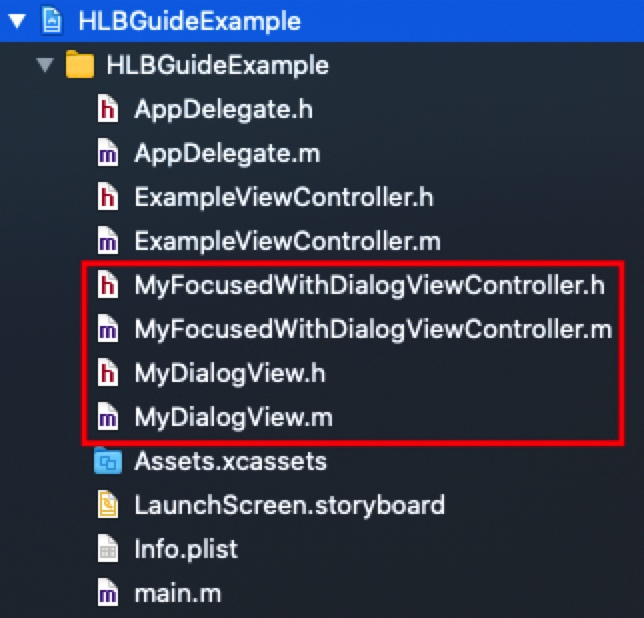
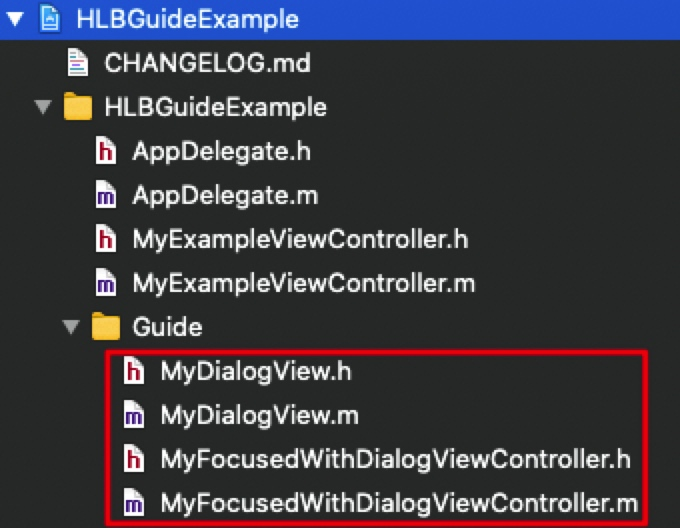
Update README.md

diff --git a/README.md b/README.md
@@ -16,15 +16,21 @@
 pod 'HLBGuide'
 ```
 
+## HLBGuide 的设计思想
+
+类似使用 `UITableviewController` 和 `UITableviewCell` 创建和管理自定义 cell，使用 `HLBGuide` 时，需要创建 **HLBFocusedWithDialogViewController** 和 **HLBDialogView** 的子类，以自定义会话框的 UI 并管理相关点击事件。不同的是，一个 `UITableviewController` 上可管理多个 `UITableviewCell` 子类实例，而 `HLBFocusedWithDialogViewController` 只需要管理一个 `HLBDialogView` 子类实例。  
+
+类似 `UITableViewDataSource` 为 `UITableviewController` 提供当前要显示的自定义 cell，使用 `HLBGuide` 时，通过遵守 **HLBFocusedWithDialogViewControllerDelegate** 协议来告知 `HLBFocusedWithDialogViewController` 使用哪个自定义的 `HLBDialogView` 子类。
+
 ## HLBGuide 的使用方法
 
-由于要自定义会话框的 UI，请创建 `HLBFocusedWithDialogViewController` 和 `HLBDialogView` 的子类，在其中添加自定义 UI 及其点击事件。如示例中的 `MyFocusedWithDialogViewController` 和 `MyDialogView`。  
+在 `HLBDialogView` 中添加自定义 UI ， 在 `HLBFocusedWithDialogViewController` 添加点击事件。如示例中的 `MyFocusedWithDialogViewController` 和 `MyDialogView`。  
 
 需要注意的是， `HLBDialogView` 子类的控件需添加到的 `contentView` 中。
 
 <img src="./media/subclass-example.jpg" width="50%" height="50%">
 
-然后就可以按下述步骤添加和展示引导页了：
+**然后就可以按下述步骤添加和展示引导页了：**
 
 #### 创建引导页
 
@@ -44,7 +50,7 @@ pod 'HLBGuide'
 
 #### 说明
 
-详细的使用示例可参考 `HLBGuideExample` 示例工程中的 `ExampleViewController.m`。
+详细的使用示例可参考 `HLBGuideExample` 示例工程中的 `MyExampleViewController.m`。
 
 ## 原理讲解：示例 app 中 UI 的层级结构
 
